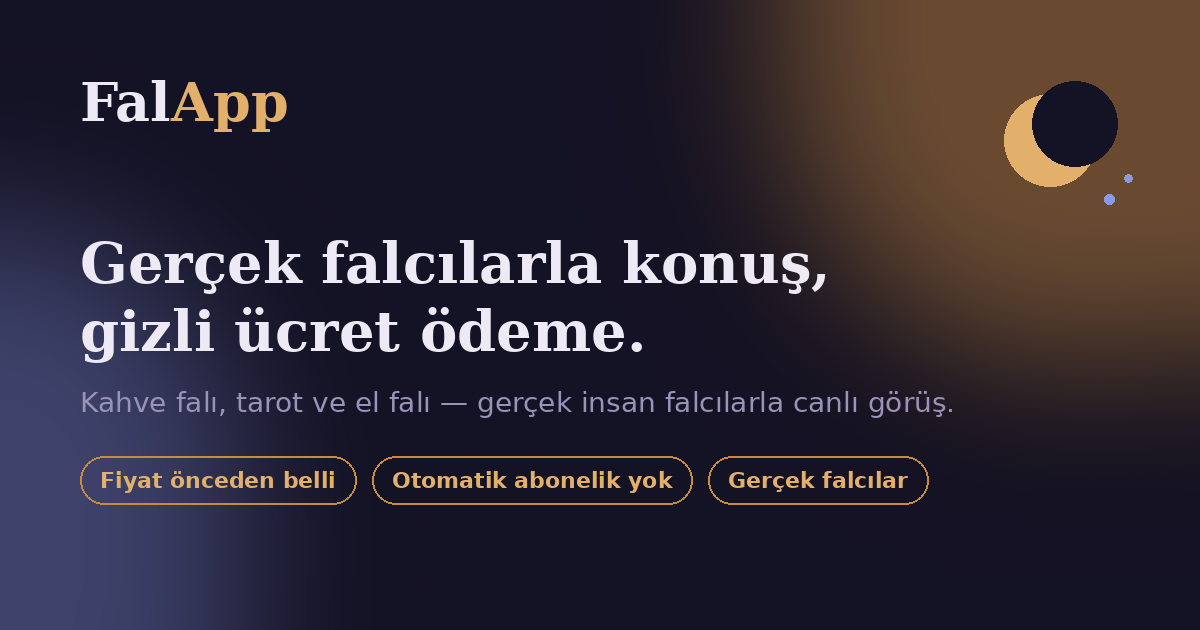
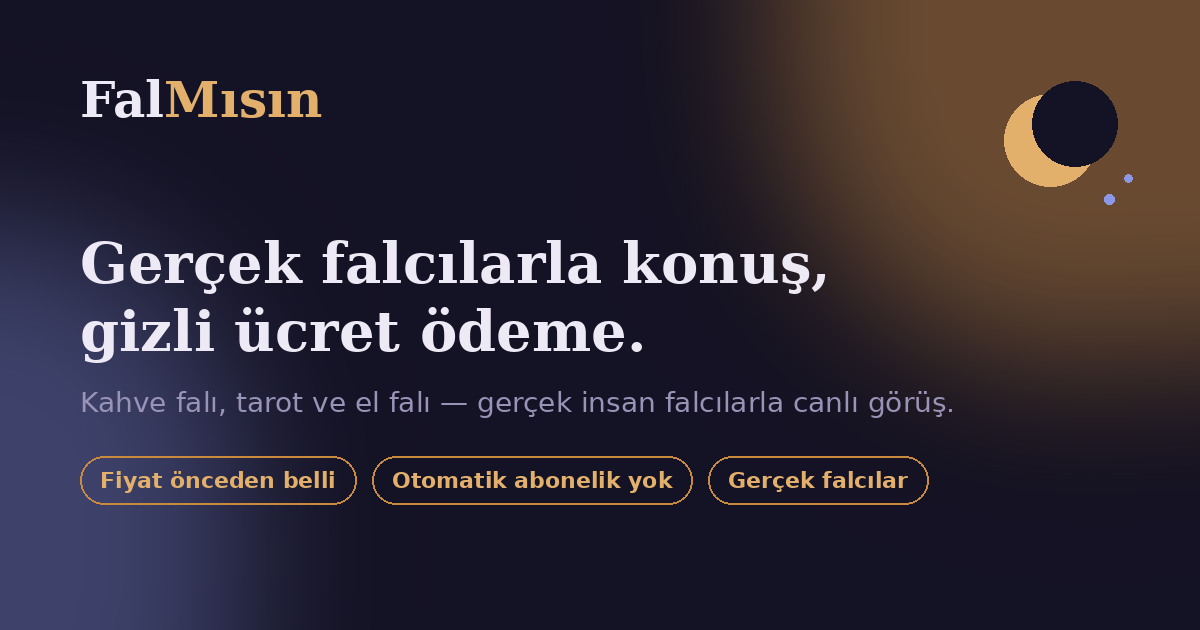
Marka adını FalApp'ten FalMısın'a güncelle (deneme)
Başlık, header/footer wordmark, admin panel başlığı, paylaşım
önizleme görseli ve meta etiketleri yeni isimle güncellendi.
Repo/URL yapısı (GitHub Pages linki) değişmedi.

Claude-Session: https://claude.ai/code/session_01P8cq54bAC1CnqmfW7npKgW

Changed region(s): [[0.0617, 0.1206, 0.2775, 0.2111]]

diff --git a/index.html b/index.html
@@ -3,18 +3,18 @@
 <head>
 <meta charset="UTF-8">
 <meta name="viewport" content="width=device-width, initial-scale=1.0">
-<title>FalApp — Gerçek falcılarla canlı fal</title>
+<title>FalMısın — Gerçek falcılarla canlı fal</title>
 <meta name="description" content="Yapay zekâ değil, gerçek insan falcılarla kahve falı, tarot ve el falı baktır. Fiyat baştan belli, gizli ücret yok, istediğin an bırak.">
 <meta property="og:type" content="website">
 <meta property="og:url" content="https://berkyildiirim.github.io/FalApp/">
-<meta property="og:title" content="FalApp — Gerçek falcılarla canlı fal">
+<meta property="og:title" content="FalMısın — Gerçek falcılarla canlı fal">
 <meta property="og:description" content="Yapay zekâ değil, gerçek insan falcılarla kahve falı, tarot ve el falı baktır. Fiyat baştan belli, gizli ücret yok.">
 <meta property="og:image" content="https://berkyildiirim.github.io/FalApp/og-image.png">
 <meta property="og:image:width" content="1200">
 <meta property="og:image:height" content="630">
 <meta property="og:locale" content="tr_TR">
 <meta name="twitter:card" content="summary_large_image">
-<meta name="twitter:title" content="FalApp — Gerçek falcılarla canlı fal">
+<meta name="twitter:title" content="FalMısın — Gerçek falcılarla canlı fal">
 <meta name="twitter:description" content="Yapay zekâ değil, gerçek insan falcılarla kahve falı, tarot ve el falı baktır. Fiyat baştan belli, gizli ücret yok.">
 <meta name="twitter:image" content="https://berkyildiirim.github.io/FalApp/og-image.png">
 <meta name="theme-color" content="#141225">
@@ -31,7 +31,7 @@
 
 <header class="site-header">
   <div class="wrap header-inner">
-    <a class="wordmark" href="#top">Fal<span>App</span></a>
+    <a class="wordmark" href="#top">Fal<span>Mısın</span></a>
     <nav class="main-nav">
       <a href="#falcilar">Falcılar</a>
       <a href="#nasil-calisir">Nasıl çalışır</a>
@@ -292,7 +292,7 @@
 
       <table class="compare">
         <thead>
-          <tr><th></th><th>FalApp</th><th>Çoğu rakip</th></tr>
+          <tr><th></th><th>FalMısın</th><th>Çoğu rakip</th></tr>
         </thead>
         <tbody>
           <tr><td>Fiyat görüşme öncesi belli</td><td class="yes">Evet</td><td class="no">Çoğunlukla hayır</td></tr>
@@ -371,7 +371,7 @@
 <footer class="site-footer">
   <div class="wrap footer-inner">
     <div>
-      <a class="wordmark" href="#top">Fal<span>App</span></a>
+      <a class="wordmark" href="#top">Fal<span>Mısın</span></a>
       <p>Fal, eğlence ve kişisel yorum amaçlıdır; tıbbi, hukuki veya finansal tavsiye yerine geçmez.</p>
     </div>
     <div class="footer-contact">

diff --git a/admin.html b/admin.html
@@ -3,7 +3,7 @@
 <head>
 <meta charset="UTF-8">
 <meta name="viewport" content="width=device-width, initial-scale=1.0">
-<title>FalApp — Admin Panel</title>
+<title>FalMısın — Admin Panel</title>
 <meta name="robots" content="noindex, nofollow">
 <meta name="theme-color" content="#141225">
 <link rel="icon" type="image/svg+xml" href="favicon.svg">
@@ -19,7 +19,7 @@
 
 <header class="site-header">
   <div class="wrap header-inner">
-    <a class="wordmark" href="index.html">Fal<span>App</span> <span class="admin-badge">Admin</span></a>
+    <a class="wordmark" href="index.html">Fal<span>Mısın</span> <span class="admin-badge">Admin</span></a>
     <div class="header-actions" style="margin-left:auto;">
       <span id="adminWhoami" class="admin-whoami"></span>
       <button class="btn btn-ghost" id="adminLogoutBtn" type="button" hidden>Çıkış yap</button>

diff --git a/script.js b/script.js
@@ -543,7 +543,7 @@ function falappSupabase() {
     if (y.admin_yanit) {
       const reply = document.createElement("div");
       reply.className = "review-reply";
-      reply.innerHTML = "<strong>FalApp ekibi:</strong><p></p>";
+      reply.innerHTML = "<strong>FalMısın ekibi:</strong><p></p>";
       reply.querySelector("p").textContent = y.admin_yanit;
       article.appendChild(reply);
     }
